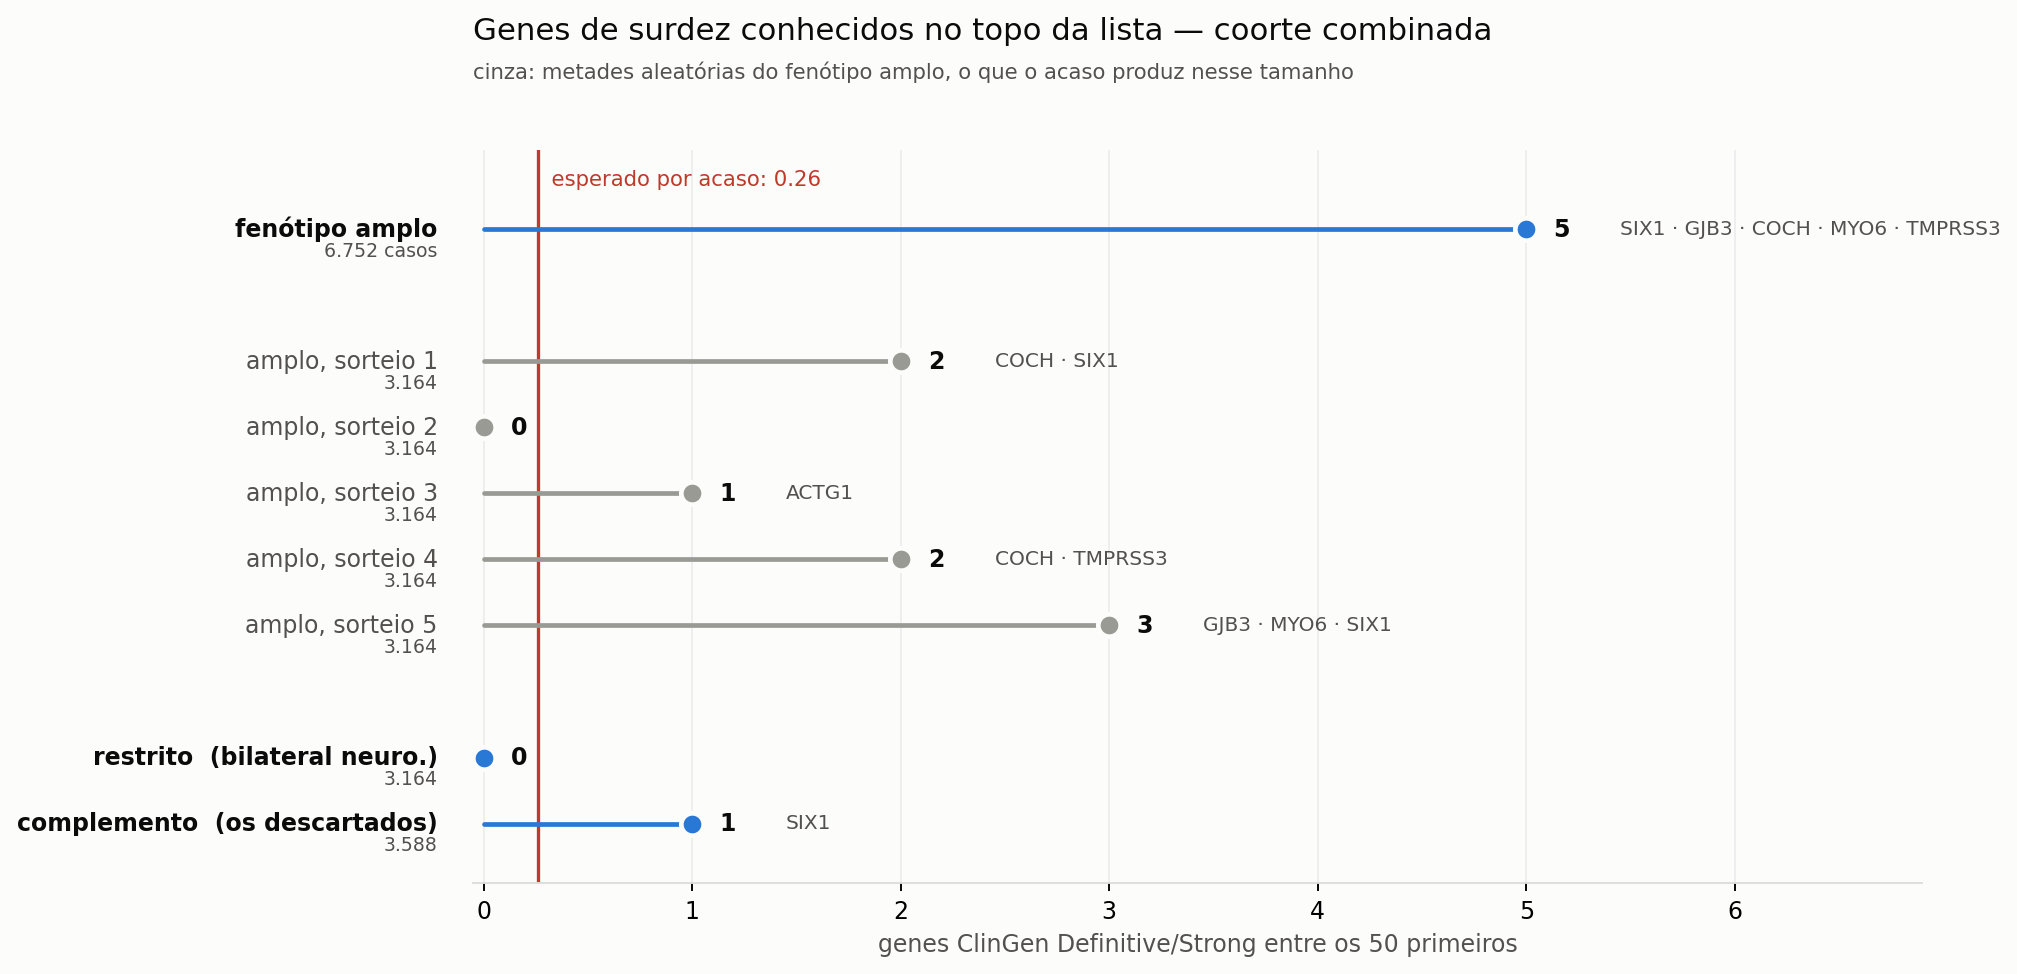
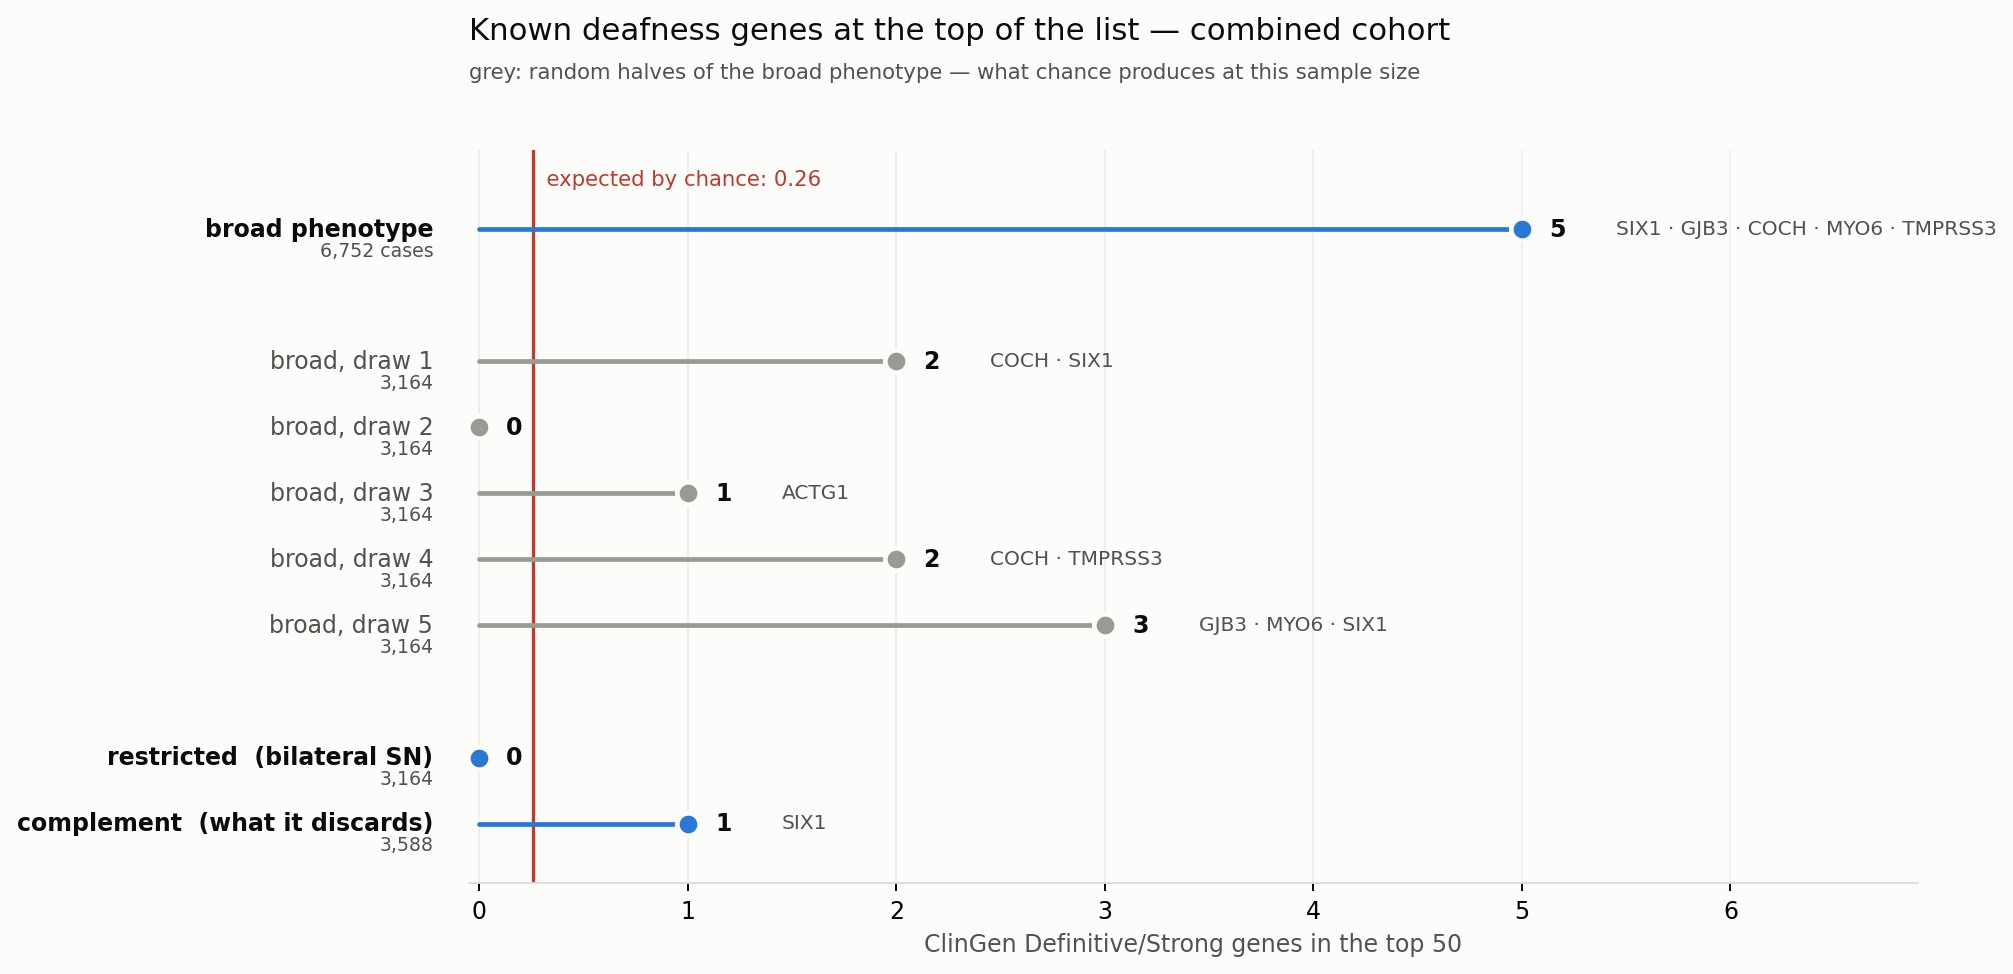
Label the figures in English, for reuse in the lab documentation
Andre's call and the right one: these get lifted into the English write-up, and
Portuguese text inside an English document reads worse than the reverse. In the
Portuguese note the surrounding prose explains them either way, so nothing is
lost there.

All three converted -- Manhattan, QQ and the ClinGen enrichment -- including the
row labels, the reference-line annotation and the axis titles. The reason is
recorded in both scripts so a later edit does not translate them back.

The Portuguese note gains one line saying the figures are deliberately in
English, so a reader does not take it for an oversight.

diff --git a/analysis/exwas_pmbb_bilateral/phase_5/scripts/07_enrichment_figure.py b/analysis/exwas_pmbb_bilateral/phase_5/scripts/07_enrichment_figure.py
@@ -17,6 +17,9 @@ rather than reason about it; `node` is not installed on this host, so that was
 not possible. Using the documented values as-is, in the two-colour emphasis
 form, is the mitigation.
 
+Labelled in English: these figures are lifted into the English documentation,
+and Portuguese text inside an English document reads worse than the reverse.
+
 Output: figures/clingen_enrichment.png
 """
 import json
@@ -40,17 +43,17 @@ by = {r["label"]: r for r in co["rows"]}
 
 EXPECTED = 0.26
 rows = [
-    ("fenótipo amplo", "6.752 casos", 5,
+    ("broad phenotype", "6,752 cases", 5,
      "SIX1 · GJB3 · COCH · MYO6 · TMPRSS3", ACCENT),
-    (None, None, None, None, None),                      # separador
-    ("amplo, sorteio 1", "3.164", 2, "COCH · SIX1", MUTED),
-    ("amplo, sorteio 2", "3.164", 0, "", MUTED),
-    ("amplo, sorteio 3", "3.164", 1, "ACTG1", MUTED),
-    ("amplo, sorteio 4", "3.164", 2, "COCH · TMPRSS3", MUTED),
-    ("amplo, sorteio 5", "3.164", 3, "GJB3 · MYO6 · SIX1", MUTED),
+    (None, None, None, None, None),                      # separator
+    ("broad, draw 1", "3,164", 2, "COCH · SIX1", MUTED),
+    ("broad, draw 2", "3,164", 0, "", MUTED),
+    ("broad, draw 3", "3,164", 1, "ACTG1", MUTED),
+    ("broad, draw 4", "3,164", 2, "COCH · TMPRSS3", MUTED),
+    ("broad, draw 5", "3,164", 3, "GJB3 · MYO6 · SIX1", MUTED),
     (None, None, None, None, None),
-    ("restrito  (bilateral neuro.)", "3.164", 0, "", ACCENT),
-    ("complemento  (os descartados)", "3.588", 1, "SIX1", ACCENT),
+    ("restricted  (bilateral SN)", "3,164", 0, "", ACCENT),
+    ("complement  (what it discards)", "3,588", 1, "SIX1", ACCENT),
 ]
 
 plt.rcParams.update({
@@ -80,23 +83,23 @@ for i, (label, n, val, genes, color) in enumerate(rows):
                 color=INK2)
 
 ax.axvline(EXPECTED, color="#c0392b", lw=1.4, zorder=1)
-ax.text(EXPECTED, max(ys) + 0.75, f"  esperado por acaso: {EXPECTED}",
+ax.text(EXPECTED, max(ys) + 0.75, f"  expected by chance: {EXPECTED}",
         ha="left", va="center", fontsize=9, color="#c0392b")
 
 ax.set_xlim(-0.05, 6.9)
 ax.set_ylim(min(ys) - 0.9, max(ys) + 1.2)
 ax.set_yticks([])
 ax.set_xticks(range(0, 7))
-ax.set_xlabel("genes ClinGen Definitive/Strong entre os 50 primeiros", color=INK2)
+ax.set_xlabel("ClinGen Definitive/Strong genes in the top 50", color=INK2)
 for s in ("top", "right", "left"):
     ax.spines[s].set_visible(False)
 ax.grid(axis="x", color="#eeeeee", lw=0.8, zorder=0)
 ax.set_axisbelow(True)
 
-fig.suptitle("Genes de surdez conhecidos no topo da lista — coorte combinada",
+fig.suptitle("Known deafness genes at the top of the list — combined cohort",
              x=0.125, ha="left", fontsize=13, y=1.02)
 fig.text(0.125, 0.955,
-         "cinza: metades aleatórias do fenótipo amplo, o que o acaso produz nesse tamanho",
+         "grey: random halves of the broad phenotype — what chance produces at this sample size",
          ha="left", fontsize=9, color=INK2)
 fig.savefig(HERE / "figures/clingen_enrichment.png")
 print("figures/clingen_enrichment.png")

diff --git a/analysis/exwas_pmbb_bilateral/phase_5/scripts/08_figures.py b/analysis/exwas_pmbb_bilateral/phase_5/scripts/08_figures.py
@@ -7,6 +7,11 @@ anything cross the bar", the QQ answers "is the test calibrated". Each carries
 all three cohorts, so a reader compares across them in one glance and a slide
 can take either on its own.
 
+Labelled in ENGLISH even though the write-up that embeds them is in Portuguese.
+These figures are meant to be lifted into the English documentation, and
+Portuguese text inside an English document reads worse than the reverse -- in
+the Portuguese note the surrounding prose explains them either way.
+
 An earlier version stacked Manhattan and QQ per cohort, which meant one image
 served two sections of the document and neither could be used alone.
 
@@ -26,7 +31,7 @@ FIG = Path(__file__).resolve().parents[2] / "figures"
 FIG.mkdir(exist_ok=True)
 bp.style()
 
-LABEL = {"combined": "combinada", "EUR": "europeia", "AFR": "africana"}
+LABEL = {"combined": "combined", "EUR": "European", "AFR": "African"}
 
 # ---- Manhattan, one row per cohort ----
 fig, axes = plt.subplots(3, 1, figsize=(13, 10))
@@ -34,13 +39,13 @@ for ax, cohort in zip(axes, bp.COHORTS):
     om = bp.omnibus(cohort).rename(columns={"omnibus_p": "Pvalue"})
     om["Cohort"] = cohort
     bp.manhattan(om, cohort, ax=ax, label_top=6)
-    ax.set_title(f"{LABEL[cohort]} — {bp.N[cohort]:,} pessoas, "
-                 f"{bp.CASES[cohort]:,} casos", fontsize=10)
+    ax.set_title(f"{LABEL[cohort]} — {bp.N[cohort]:,} people, "
+                 f"{bp.CASES[cohort]:,} cases", fontsize=10)
     if ax is not axes[-1]:
         ax.set_xlabel("")
 h, l = axes[0].get_legend_handles_labels()
 fig.legend(h, l, loc="lower center", bbox_to_anchor=(0.5, -0.015))
-fig.suptitle("Omnibus de Cauchy — um p-valor por gene", y=0.997)
+fig.suptitle("Cauchy omnibus — one p-value per gene", y=0.997)
 fig.tight_layout()
 fig.savefig(FIG / "manhattan_omnibus.png")
 plt.close(fig)
@@ -49,10 +54,10 @@ plt.close(fig)
 fig, axes = plt.subplots(1, 3, figsize=(13, 4.6))
 for ax, cohort in zip(axes, bp.COHORTS):
     om = bp.omnibus(cohort)
-    bp.qq(om.omnibus_p, ax=ax, title=f"{LABEL[cohort]} — {bp.CASES[cohort]:,} casos")
+    bp.qq(om.omnibus_p, ax=ax, title=f"{LABEL[cohort]} — {bp.CASES[cohort]:,} cases")
     if ax is not axes[0]:
         ax.set_ylabel("")
-fig.suptitle("QQ do omnibus — a faixa cinza é o envelope nulo de 95%", y=1.0)
+fig.suptitle("QQ of the omnibus — the grey band is the 95% null envelope", y=1.0)
 fig.tight_layout()
 fig.savefig(FIG / "qq_omnibus.png")
 plt.close(fig)

diff --git a/analysis/exwas_pmbb_bilateral/phase_5/scripts/burden_plots.py b/analysis/exwas_pmbb_bilateral/phase_5/scripts/burden_plots.py
@@ -133,8 +133,8 @@ def manhattan(d, cohort, ax=None, mask=None, maf=None, label_top=5):
     # as it was when a panel meant one mask-by-MAF cell.
     bar_genes = 0.05 / s.Region.nunique()
     ax.axhline(-np.log10(bar_genes), color="#c0392b", lw=0.9,
-               label=f"Bonferroni: 0,05 / {s.Region.nunique():,} genes "
-                     f"= {bar_genes:.1e}".replace(".", ",", 1))
+               label=f"Bonferroni: 0.05 / {s.Region.nunique():,} genes "
+                     f"= {bar_genes:.1e}")
 
     # No FDR line: Benjamini-Hochberg's cutoff is the largest p with q < 0.05,
     # and there is none, so a line would have nowhere to sit. The smallest q is

diff --git a/analysis/exwas_pmbb_bilateral/andre_notes/phase_05_analise_pt.md b/analysis/exwas_pmbb_bilateral/andre_notes/phase_05_analise_pt.md
@@ -182,6 +182,10 @@ Em cinza, as cinco metades aleatórias — **o que o acaso produz nesse tamanho*
 braços reais. O restrito (0) e o complemento (1) caem **dentro** da nuvem cinza; só o conjunto
 completo, com 6.752 casos, sai dela.
 
+*(As figuras estão rotuladas em inglês de propósito: elas serão reaproveitadas na documentação do
+laboratório, e texto em português dentro de documento em inglês lê pior que o contrário — aqui a
+prosa ao redor explica de todo jeito.)*
+
 ### A conclusão
 
 **O enriquecimento precisa dos 6.752 casos juntos.** O nulo da restrição é **perda de poder, não
